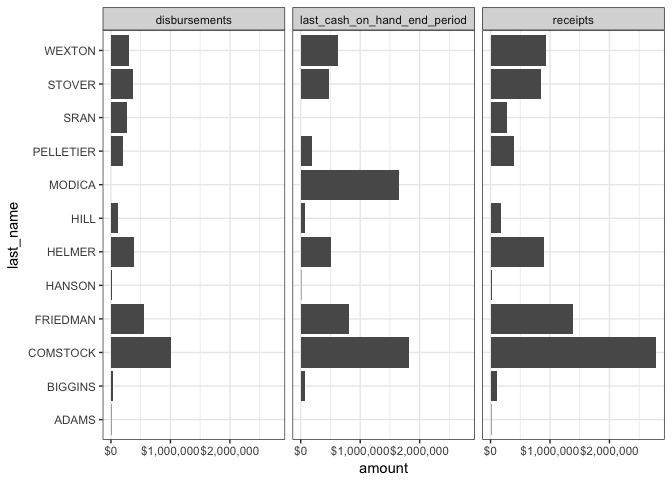
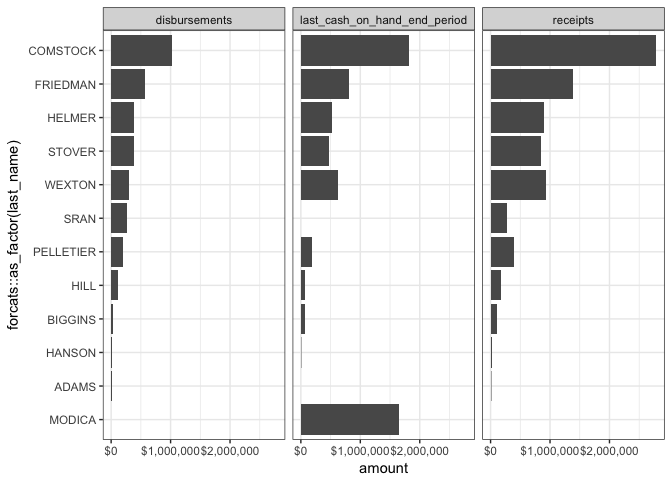
Update README

diff --git a/README.md b/README.md
@@ -21,17 +21,18 @@ Examples
 library(tidyfec)
 library(tidyverse)
 
-#data_gov_api_key("api-key-string")
 #install api key
+#data_gov_api_key("api-key-string")
+
 
 df <- search_candidates(state = "VA", district = "10", office = "H", election_year = "2018") %>%
-  get_candidate_totals() %>%
-  filter(type_of_funds %in% tidyfec_filters$top_level, cycle == "2018") %>%
-  separate(name, c('last_name', 'first_name'), sep = ', ', extra = "drop", fill = "right")
+  get_candidate_totals()
 
-df  %>%
+df %>% filter(type_of_funds %in% tidyfec_filters$candidate_totals$type_of_funds$top_level, cycle == "2018") %>%
+  separate(name, c('last_name', 'first_name'), sep = ', ', extra = "drop", fill = "right") %>%
+  arrange(-desc(amount)) %>%
   ggplot() +
-  geom_bar(aes(x = last_name, y = amount), stat = "identity") +
+  geom_bar(aes(x = forcats::as_factor(last_name), y = amount), stat = "identity") +
   facet_wrap(~type_of_funds) +
   scale_y_continuous(labels = scales::dollar) +
   coord_flip() +
